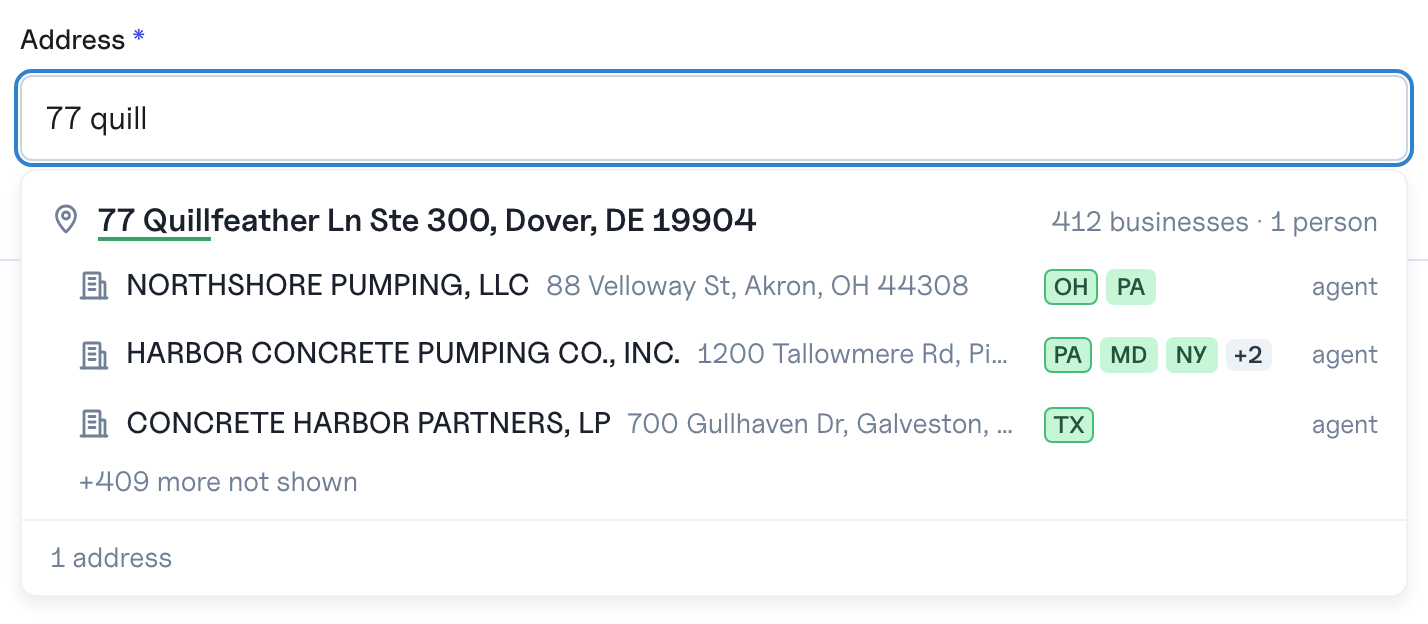
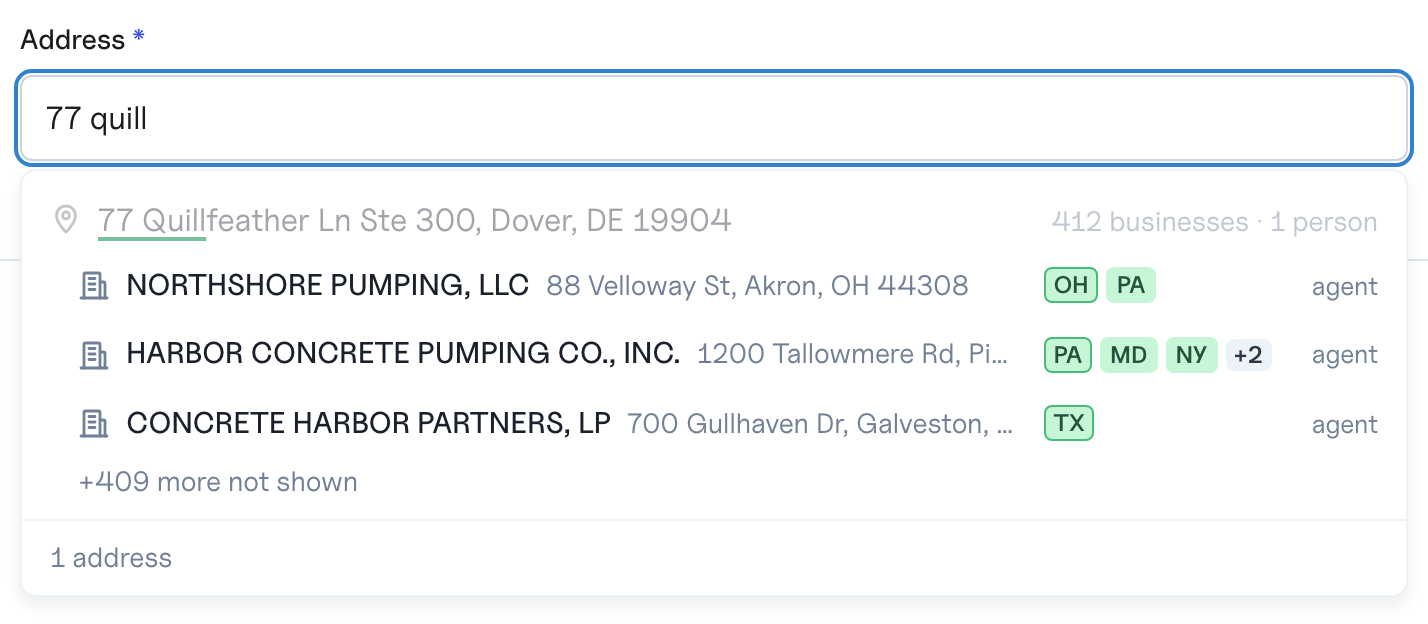
Retake the person and address shots, and call the drawn floor about 1.5:1
The demo guide's person and address screenshots still drew each head bold
in full ink. They are retaken on the offline sample, framed as before, at
the head that draws every disabled name faint and in the regular weight.

A role draws at 1.5:1 in one face and a little under it in another, so
the docs and the changelog say about 1.5:1 as drawn, not 1.5:1 or more.

diff --git a/docs/styling.md b/docs/styling.md
@@ -317,7 +317,7 @@ contrast minimum, so the fade is deliberately strong: the text may go twice the
 dim of the way to the ground, and floors keep it legible on any colours. A
 disabled name keeps 2.5:1 by the formula, drawing at about 2.3:1, faint but
 never gone; the rest keeps 25% of its contrast and at least 1.7:1, a role 1.8:1
-as the smallest text, so each draws at 1.5:1 or more. A colour set only in CSS,
+as the smallest text, so each draws at about 1.5:1. A colour set only in CSS,
 not through `look`, fades by the default look's shares (`color-mix`), without
 the floors. A translucent title or subtitle is faded as it is drawn on the
 ground; a translucent background shows whatever is under the menu, which the

diff --git a/CHANGELOG.md b/CHANGELOG.md
@@ -86,7 +86,7 @@ release.
   way, and dims its state squares, a match mark keeping its hue a little faded,
   with floors worked out from the look's colours: a name keeps 2.5:1 (about
   2.3:1 as drawn) and the rest 25% of its contrast, at least 1.7:1 and a role
-  1.8:1 (1.5:1 or more as drawn). A disabled name, a line's or a head's, drops
+  1.8:1 (about 1.5:1 as drawn). A disabled name, a line's or a head's, drops
   to the regular weight, never above the lines' (`--bl-ac-disabled-line-weight`,
   `--bl-ac-disabled-head-weight`), so nothing disabled reads as bold or as a
   title to click; at 0 it keeps a pick's weight. Nothing fades under forced
